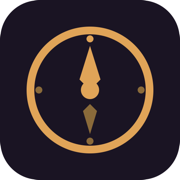
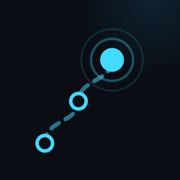
App-Symbol und Statusleiste im Neon-Route-Design
Neues Symbol: gestrichelte Cyan-Route mit Stationspunkten zum
leuchtenden Ziel. Statusleiste und Manifest-Farben auf #0a0e14,
dunkle durchscheinende Statusleiste auf dem iPhone, zusätzliches
192er-Symbol für Android. Cache-Version v10.

diff --git a/index.html b/index.html
@@ -3,7 +3,10 @@
 <head>
   <meta charset="UTF-8">
   <meta name="viewport" content="width=device-width, initial-scale=1.0, viewport-fit=cover">
-  <meta name="theme-color" content="#1a1423">
+  <meta name="theme-color" content="#0a0e14">
+  <meta name="apple-mobile-web-app-capable" content="yes">
+  <meta name="apple-mobile-web-app-status-bar-style" content="black-translucent">
+  <meta name="apple-mobile-web-app-title" content="Schnitzeljagd">
   <meta name="robots" content="noindex, nofollow">
   <title>Schnitzeljagd</title>
   <link rel="manifest" href="manifest.webmanifest">

diff --git a/sw.js b/sw.js
@@ -2,7 +2,7 @@
  * Mobilfunknetz unterwegs zuverlässig lädt. Daten (data/*.json) werden
  * network-first geladen, damit neue Städte/Korrekturen sofort ankommen. */
 
-const CACHE = 'schnitzeljagd-v9';
+const CACHE = 'schnitzeljagd-v10';
 const SHELL = [
   './',
   './index.html',
